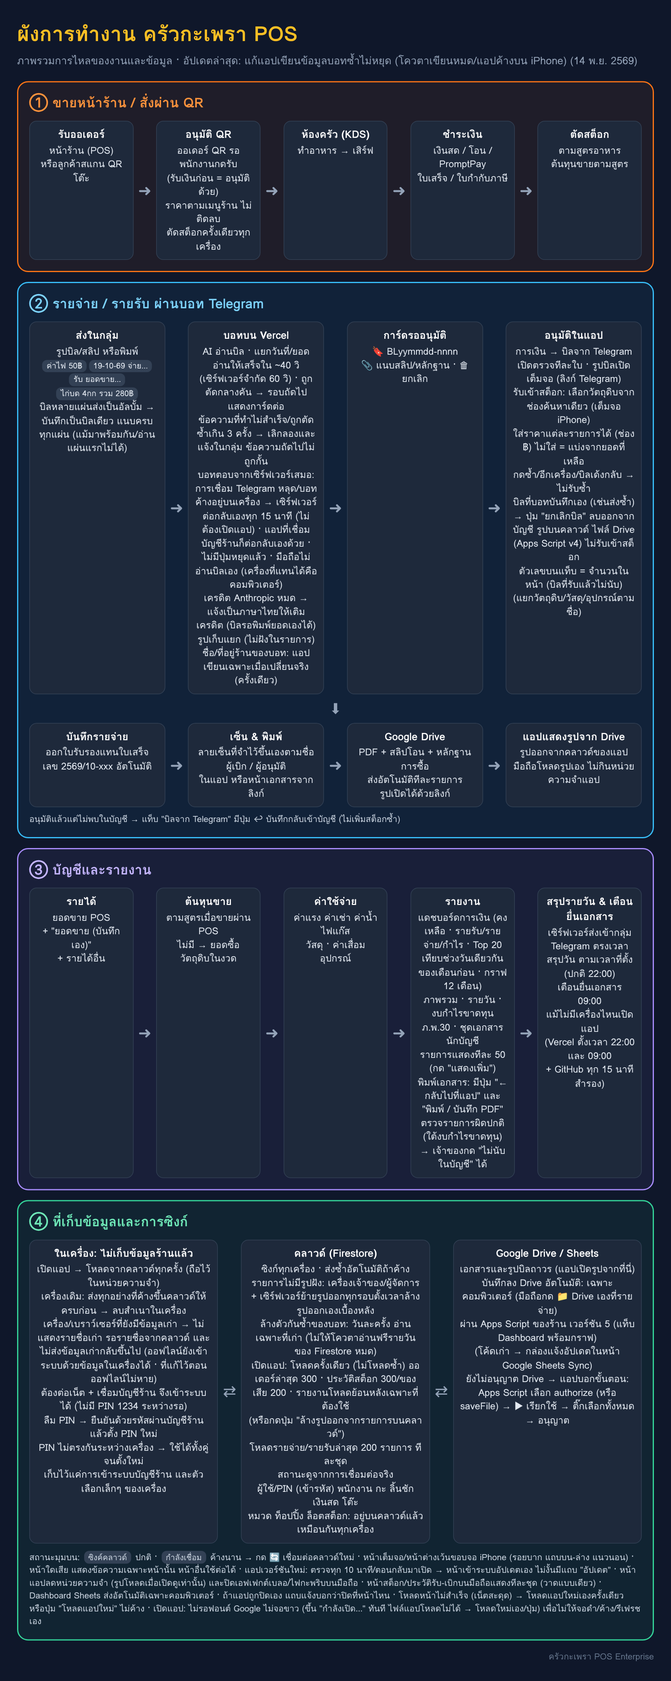
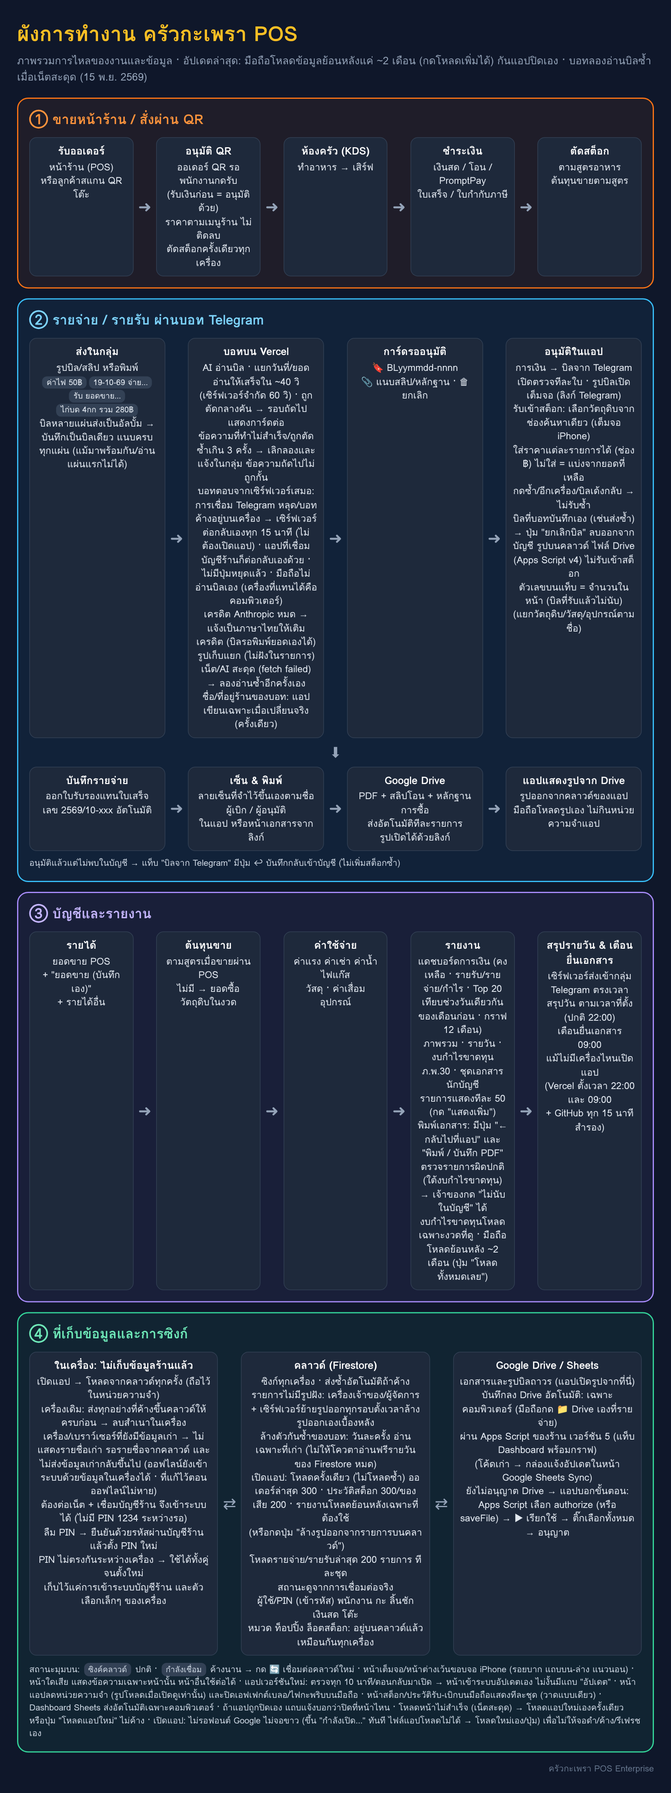
Phones stop loading a year of orders on the finance page; the bot reads again after a network hiccup
The books loaded every order since the start of the year (or the books)
whenever the finance page opened, also for this month's profit and loss:
on iPhones, which keep nothing between visits, that was thousands of
orders in memory (and reads) each time, and the page was closed for lack
of memory. A statement now loads its own period; a phone loads about two
months by itself and older records when asked. A device that keeps
nothing no longer holds a second copy of its records as text.

The bot tries a bill once more when reading it failed quickly on the
network (fetch failed, a reset connection, the AI busy).

Claude-Session: https://claude.ai/code/session_01Gq3UvYW4wv3hsVCXoh5wxy

diff --git a/docs/workflow/flow.html b/docs/workflow/flow.html
@@ -17,7 +17,7 @@ h1{margin:0 0 4px;font-size:34px;color:#fbbf24}.sub{color:#94a3b8;font-size:17px
 .foot{color:#64748b;font-size:14px;margin-top:6px;text-align:right}
 </style></head><body>
 <h1>ผังการทำงาน ครัวกะเพรา POS</h1>
-<div class="sub">ภาพรวมการไหลของงานและข้อมูล · อัปเดตล่าสุด: แก้แอปเขียนข้อมูลบอทซ้ำไม่หยุด (โควตาเขียนหมด/แอปค้างบน iPhone) (14 พ.ย. 2569)</div>
+<div class="sub">ภาพรวมการไหลของงานและข้อมูล · อัปเดตล่าสุด: มือถือโหลดข้อมูลย้อนหลังแค่ ~2 เดือน (กดโหลดเพิ่มได้) กันแอปปิดเอง · บอทลองอ่านบิลซ้ำเมื่อเน็ตสะดุด (15 พ.ย. 2569)</div>
 
 <div class="lane pos"><h2>① ขายหน้าร้าน / สั่งผ่าน QR</h2>
 <div class="row">
@@ -31,7 +31,7 @@ h1{margin:0 0 4px;font-size:34px;color:#fbbf24}.sub{color:#94a3b8;font-size:17px
 <div class="lane tg"><h2>② รายจ่าย / รายรับ ผ่านบอท Telegram</h2>
 <div class="row">
 <div class="box"><b>ส่งในกลุ่ม</b>รูปบิล/สลิป หรือพิมพ์<br><span class="tag">ค่าไฟ 50฿</span><span class="tag">19-10-69 จ่าย…</span><span class="tag">รับ ยอดขาย…</span><span class="tag">ไก่บด 4กก รวม 280฿</span><br>บิลหลายแผ่นส่งเป็นอัลบั้ม → บันทึกเป็นบิลเดียว แนบครบทุกแผ่น (แม้มาพร้อมกัน/อ่านแผ่นแรกไม่ได้)</div><div class="ar">➜</div>
-<div class="box"><b>บอทบน Vercel</b>AI อ่านบิล · แยกวันที่/ยอด<br>อ่านให้เสร็จใน ~40 วิ (เซิร์ฟเวอร์จำกัด 60 วิ) · ถูกตัดกลางคัน → รอบถัดไปแสดงการ์ดต่อ<br>ข้อความที่ทำไม่สำเร็จ/ถูกตัดซ้ำเกิน 3 ครั้ง → เลิกลองและแจ้งในกลุ่ม ข้อความถัดไปไม่ถูกกั้น<br>บอทตอบจากเซิร์ฟเวอร์เสมอ: การเชื่อม Telegram หลุด/บอทค้างอยู่บนเครื่อง → เซิร์ฟเวอร์ต่อกลับเองทุก 15 นาที (ไม่ต้องเปิดแอป) · แอปที่เชื่อมบัญชีร้านก็ต่อกลับเองด้วย · ไม่มีปุ่มหยุดแล้ว · มือถือไม่อ่านบิลเอง (เครื่องที่แทนได้คือคอมพิวเตอร์)<br>เครดิต Anthropic หมด → แจ้งเป็นภาษาไทยให้เติมเครดิต (บิลรอพิมพ์ยอดเองได้)<br>รูปเก็บแยก (ไม่ฝังในรายการ)<br>ชื่อ/ที่อยู่ร้านของบอท: แอปเขียนเฉพาะเมื่อเปลี่ยนจริง (ครั้งเดียว)</div><div class="ar">➜</div>
+<div class="box"><b>บอทบน Vercel</b>AI อ่านบิล · แยกวันที่/ยอด<br>อ่านให้เสร็จใน ~40 วิ (เซิร์ฟเวอร์จำกัด 60 วิ) · ถูกตัดกลางคัน → รอบถัดไปแสดงการ์ดต่อ<br>ข้อความที่ทำไม่สำเร็จ/ถูกตัดซ้ำเกิน 3 ครั้ง → เลิกลองและแจ้งในกลุ่ม ข้อความถัดไปไม่ถูกกั้น<br>บอทตอบจากเซิร์ฟเวอร์เสมอ: การเชื่อม Telegram หลุด/บอทค้างอยู่บนเครื่อง → เซิร์ฟเวอร์ต่อกลับเองทุก 15 นาที (ไม่ต้องเปิดแอป) · แอปที่เชื่อมบัญชีร้านก็ต่อกลับเองด้วย · ไม่มีปุ่มหยุดแล้ว · มือถือไม่อ่านบิลเอง (เครื่องที่แทนได้คือคอมพิวเตอร์)<br>เครดิต Anthropic หมด → แจ้งเป็นภาษาไทยให้เติมเครดิต (บิลรอพิมพ์ยอดเองได้)<br>รูปเก็บแยก (ไม่ฝังในรายการ)<br>เน็ต/AI สะดุด (fetch failed) → ลองอ่านซ้ำอีกครั้งเอง<br>ชื่อ/ที่อยู่ร้านของบอท: แอปเขียนเฉพาะเมื่อเปลี่ยนจริง (ครั้งเดียว)</div><div class="ar">➜</div>
 <div class="box"><b>การ์ดรออนุมัติ</b>🔖 BLyymmdd-nnnn<br>📎 แนบสลิป/หลักฐาน · 🗑 ยกเลิก</div><div class="ar">➜</div>
 <div class="box"><b>อนุมัติในแอป</b>การเงิน → บิลจาก Telegram<br>เปิดตรวจทีละใบ · รูปบิลเปิดเต็มจอ (ลิงก์ Telegram)<br>รับเข้าสต็อก: เลือกวัตถุดิบจากช่องค้นหาเดียว (เต็มจอ iPhone)<br>ใส่ราคาแต่ละรายการได้ (ช่อง ฿) ไม่ใส่ = แบ่งจากยอดที่เหลือ<br>กดซ้ำ/อีกเครื่อง/บิลเด้งกลับ → ไม่รับซ้ำ<br>บิลที่บอทบันทึกเอง (เช่นส่งซ้ำ) → ปุ่ม "ยกเลิกบิล" ลบออกจากบัญชี รูปบนคลาวด์ ไฟล์ Drive (Apps Script v4) ไม่รับเข้าสต็อก<br>ตัวเลขบนแท็บ = จำนวนในหน้า (บิลที่รับแล้วไม่นับ)<br>(แยกวัตถุดิบ/วัสดุ/อุปกรณ์ตามชื่อ)</div>
 </div>
@@ -50,7 +50,7 @@ h1{margin:0 0 4px;font-size:34px;color:#fbbf24}.sub{color:#94a3b8;font-size:17px
 <div class="box"><b>รายได้</b>ยอดขาย POS<br>+ "ยอดขาย (บันทึกเอง)"<br>+ รายได้อื่น</div><div class="ar">➜</div>
 <div class="box"><b>ต้นทุนขาย</b>ตามสูตรเมื่อขายผ่าน POS<br>ไม่มี → ยอดซื้อวัตถุดิบในงวด</div><div class="ar">➜</div>
 <div class="box"><b>ค่าใช้จ่าย</b>ค่าแรง ค่าเช่า ค่าน้ำไฟแก๊ส<br>วัสดุ · ค่าเสื่อมอุปกรณ์</div><div class="ar">➜</div>
-<div class="box"><b>รายงาน</b>แดชบอร์ดการเงิน (คงเหลือ · รายรับ/รายจ่าย/กำไร · Top 20 เทียบช่วงวันเดียวกันของเดือนก่อน · กราฟ 12 เดือน)<br>ภาพรวม · รายวัน · งบกำไรขาดทุน<br>ภ.พ.30 · ชุดเอกสารนักบัญชี<br>รายการแสดงทีละ 50 (กด "แสดงเพิ่ม")<br>พิมพ์เอกสาร: มีปุ่ม "← กลับไปที่แอป" และ "พิมพ์ / บันทึก PDF"<br>ตรวจรายการผิดปกติ (ใต้งบกำไรขาดทุน)<br>→ เจ้าของกด "ไม่นับในบัญชี" ได้</div><div class="ar">➜</div>
+<div class="box"><b>รายงาน</b>แดชบอร์ดการเงิน (คงเหลือ · รายรับ/รายจ่าย/กำไร · Top 20 เทียบช่วงวันเดียวกันของเดือนก่อน · กราฟ 12 เดือน)<br>ภาพรวม · รายวัน · งบกำไรขาดทุน<br>ภ.พ.30 · ชุดเอกสารนักบัญชี<br>รายการแสดงทีละ 50 (กด "แสดงเพิ่ม")<br>พิมพ์เอกสาร: มีปุ่ม "← กลับไปที่แอป" และ "พิมพ์ / บันทึก PDF"<br>ตรวจรายการผิดปกติ (ใต้งบกำไรขาดทุน)<br>→ เจ้าของกด "ไม่นับในบัญชี" ได้<br>งบกำไรขาดทุนโหลดเฉพาะงวดที่ดู · มือถือโหลดย้อนหลัง ~2 เดือน (ปุ่ม "โหลดทั้งหมดเลย")</div><div class="ar">➜</div>
 <div class="box"><b>สรุปรายวัน &amp; เตือนยื่นเอกสาร</b>เซิร์ฟเวอร์ส่งเข้ากลุ่ม Telegram ตรงเวลา<br>สรุปวัน ตามเวลาที่ตั้ง (ปกติ 22:00)<br>เตือนยื่นเอกสาร 09:00<br>แม้ไม่มีเครื่องไหนเปิดแอป<br>(Vercel ตั้งเวลา 22:00 และ 09:00<br>+ GitHub ทุก 15 นาที สำรอง)</div>
 </div></div>
 

diff --git a/src/services/botEngine.ts b/src/services/botEngine.ts
@@ -140,6 +140,12 @@ type Entry = TypedEntry & { category?: Expense['category']; includeVat?: boolean
 type Saved = { kind: 'expense'; rec: Expense } | { kind: 'income'; rec: OtherIncome };
 
 /** Handles one Telegram update from the shop's chat */
+/** Errors of the network or a busy service, worth one more try */
+export const isTransient = (e: unknown) =>
+  /fetch failed|ECONNRESET|ETIMEDOUT|ENOTFOUND|EAI_AGAIN|EPIPE|socket hang up|network|overloaded|Bad Gateway|Service Unavailable|Gateway Time|\b(429|500|502|503|504|529)\b/i.test(
+    String((e as any)?.message || e || '') + ' ' + String((e as any)?.cause?.code || '')
+  );
+
 export async function handleBotUpdate(ctx: BotContext, store: BotStore, update: any): Promise<void> {
   const { chatId } = ctx;
   const fromId = update.callback_query?.from?.id ?? (update.message || update.channel_post)?.from?.id;
@@ -509,6 +515,21 @@ export async function handleBotUpdate(ctx: BotContext, store: BotStore, update: 
   const sleep = ctx.sleep || ((ms: number) => new Promise<void>(r => setTimeout(r, ms)));
   const albumKey = (group: string) => `${chatId}_${group}`;
 
+  /**
+   * A network hiccup (fetch failed, a reset connection, the AI busy) tried once more after a moment,
+   * when it failed quickly: a bill failed with "fetch failed" and waited to be typed by hand
+   */
+  const onceMore = async <T,>(work: () => Promise<T>): Promise<T> => {
+    const began = Date.now();
+    try {
+      return await work();
+    } catch (e: any) {
+      if (!isTransient(e) || Date.now() - began > 15_000) throw e;
+      await sleep(2000);
+      return work();
+    }
+  };
+
   /** The bill that owns an album: `itemId` when this photo is its first */
   const albumOwner = async (group: string, itemId: string): Promise<string> => {
     if (store.album) return store.album.claim(albumKey(group), itemId);
@@ -702,8 +723,8 @@ export async function handleBotUpdate(ctx: BotContext, store: BotStore, update: 
     const progressId = (again || progress?.message_id) as number | undefined;
     if (progressId && !again) await store.patchInbox(id, { progressMessageId: progressId });
     try {
-      const images = await ctx.readPhoto(photo);
-      const data = toPendingData(await ctx.scan(images.scan, today), item.receivedAt.slice(0, 10));
+      const images = await onceMore(() => ctx.readPhoto(photo));
+      const data = toPendingData(await onceMore(() => ctx.scan(images.scan, today)), item.receivedAt.slice(0, 10));
       const fromCaption = captionTitle(photo.caption || '');
       if (fromCaption) data.title = fromCaption;
       const twin = await findTwin(id, item.kind, data.amount, data.date, data.refNumber);
@@ -746,6 +767,7 @@ export async function handleBotUpdate(ctx: BotContext, store: BotStore, update: 
       // The album's other pages stay with this bill (kept when the amount is typed)
       if (!pages.length) pages = await albumPages(photo.mediaGroupId);
       const extraFileIds = pages.slice(0, MAX_ATTACHMENTS - 1).map(pg => pg.storeFileId || pg.fileId);
+      if (e && typeof e === 'object' && isTransient(e)) e.message = `ติดต่อ AI หรือ Telegram ไม่ได้ชั่วคราว (${e.message}) — กด “อ่านใหม่” หรือส่งรูปนี้อีกครั้ง`;
       await store.patchInbox(id, { status: 'failed', error: e?.message || 'อ่านบิลไม่สำเร็จ', ...(extraFileIds.length ? { extraFileIds } : {}) });
       // The amount can be typed as the answer, and the photo is kept with the entry
       await store.setWaiting(chatId, userId, { action: 'amount', recordId: id });

diff --git a/src/context/POSContext.tsx b/src/context/POSContext.tsx
@@ -1,3 +1,4 @@
+import { isPhoneLike, phoneHistoryFloor } from '../utils/device';
 import React, { createContext, useContext, useState, useEffect, useCallback, useRef, useMemo, ReactNode } from 'react';
 import { isLowStock } from '../utils/stockTypes';
 import { DEFAULT_PIN_HASH, hashPin, hashPinWithSalt, isHashedPin, pinMatches } from '../utils/pins';
@@ -434,9 +435,12 @@ interface POSContextType {
   }>;
   pullCloudOrders: () => Promise<{ count: number; success: boolean }>;
   /** Make sure sales, expenses and income from this day on are on this device (reports, books) */
-  loadHistory: (fromDay: string) => Promise<boolean>;
+  /** force: also on a phone, past the recent months (asked for by the person) */
+  loadHistory: (fromDay: string, force?: boolean) => Promise<boolean>;
   /** The day being loaded by loadHistory, while it loads */
   historyLoading: string | null;
+  /** On a phone: an earlier day a page wanted, not loaded until the person asks (memory) */
+  historyHeld: string | null;
   pullCloudAllData: () => Promise<{ ordersCount: number; ingredientsCount: number; menuItemsCount: number; success: boolean }>;
 
   // Conflict Resolution
@@ -2024,9 +2028,28 @@ export const POSProvider: React.FC<{ children: ReactNode }> = ({ children }) => 
   const [historyLoading, setHistoryLoading] = useState<string | null>(null);
   const historyInFlight = useRef<Promise<boolean> | null>(null);
   const historyCovered = useRef('');
+  const [historyHeld, setHistoryHeld] = useState<string | null>(null);
+  const historyHeldRef = useRef<string | null>(null);
+  historyHeldRef.current = historyHeld;
   const loadHistory = useCallback(
-    async (fromDay: string): Promise<boolean> => {
+    async (fromDay: string, force = false): Promise<boolean> => {
       if (!/^\d{4}-\d{2}-\d{2}$/.test(fromDay) || !isFirebaseAvailable() || effectiveOffline) return false;
+      // A phone keeps the recent months only: a page opening a year of orders (the books from the
+      // start of the year) ran iPhones out of memory, and read thousands of documents each time.
+      // Older ones load when the person asks (historyHeld shows the button)
+      const hold = (day: string | null) => {
+        historyHeldRef.current = day;
+        setHistoryHeld(day);
+      };
+      const reached = !!historyCovered.current && historyCovered.current <= fromDay;
+      if (!force && !reached && isPhoneLike() && fromDay < phoneHistoryFloor()) {
+        const floor = phoneHistoryFloor();
+        hold(fromDay);
+        if (historyCovered.current && historyCovered.current <= floor) return false;
+        return loadHistoryRef.current(floor, true).then(() => false);
+      }
+      // The latest page's own range is within reach, or the person asked for at least the held one
+      if (!force || !historyHeldRef.current || fromDay <= historyHeldRef.current) hold(null);
       // How far back this visit holds (a device that keeps nothing starts each visit without it)
       let covered = historyCovered.current;
       if (!retiredStart && !covered) {
@@ -2091,6 +2114,8 @@ export const POSProvider: React.FC<{ children: ReactNode }> = ({ children }) => 
     },
     [effectiveOffline]
   );
+  const loadHistoryRef = useRef(loadHistory);
+  loadHistoryRef.current = loadHistory;
 
   const pullCloudAllData = useCallback(async (): Promise<{
     ordersCount: number;
@@ -5138,6 +5163,7 @@ export const POSProvider: React.FC<{ children: ReactNode }> = ({ children }) => 
         pullCloudOrders,
         loadHistory,
         historyLoading,
+        historyHeld,
         pullCloudAllData,
         conflictReport,
         isConflictResolverOpen,

diff --git a/src/components/accounting/LedgerBooks.tsx b/src/components/accounting/LedgerBooks.tsx
@@ -1,5 +1,6 @@
 import React, { useEffect, useMemo, useRef, useState } from 'react';
 import { FinanceDashboard } from './FinanceDashboard';
+import { HistoryHeldNotice } from '../common/HistoryHeldNotice';
 import { dashboardSince } from '../../utils/financeDashboard';
 import { CheckCircle2, ChevronRight, Plus, Printer, RotateCcw, Trash2, TriangleAlert } from 'lucide-react';
 import { usePOS } from '../../context/POSContext';
@@ -180,7 +181,8 @@ export const LedgerBooks: React.FC<{ tab: LedgerTab; onTab: (t: LedgerTab) => vo
     const start = settings.booksStartAt ? thaiDay(settings.booksStartAt) : `${asOf.slice(0, 4)}-01-01`;
     // The dashboard: its twelve months (and profit to date from the start of the books)
     const dashFrom = tab === 'dashboard' ? dashboardFrom : from;
-    return [start, from, dashFrom].sort()[0];
+    // A statement of a period needs that period only (it loaded from the start of the year before)
+    return [tab === 'balance' || tab === 'trial' ? start : from, from, dashFrom].sort()[0];
   }, [settings.booksStartAt, asOf, from, tab, dashboardFrom]);
   useEffect(() => {
     let alive = true;
@@ -433,6 +435,8 @@ export const LedgerBooks: React.FC<{ tab: LedgerTab; onTab: (t: LedgerTab) => vo
       ) : historyFailed ? (
         <p className="text-[11px] text-slate-500">ยังโหลดรายการย้อนหลังจากคลาวด์ไม่ได้ (ออฟไลน์?) ตัวเลขนี้มาจากข้อมูลในเครื่องนี้</p>
       ) : null}
+
+      <HistoryHeldNotice />
 
       <nav className="flex flex-wrap gap-2" aria-label="บัญชีและงบการเงิน">
         {(Object.keys(LEDGER_TAB_LABELS) as LedgerTab[]).map(t => (

diff --git a/src/components/common/HistoryHeldNotice.tsx b/src/components/common/HistoryHeldNotice.tsx
@@ -1,0 +1,27 @@
+import React from 'react';
+import { usePOS } from '../../context/POSContext';
+const thaiDate = (d: string) => new Date(`${d}T00:00:00`).toLocaleDateString('th-TH', { day: 'numeric', month: 'short', year: 'numeric' });
+
+/**
+ * On a phone, records older than about two months are not loaded by themselves (a year of orders ran
+ * iPhones out of memory): shown with a button to load them anyway
+ */
+export const HistoryHeldNotice: React.FC = () => {
+  const { historyHeld, historyLoading, loadHistory } = usePOS();
+  if (!historyHeld) return null;
+  return (
+    <div className="p-3 rounded-xl border border-amber-600/50 bg-amber-950/30 text-amber-100 text-[11px] flex flex-wrap items-center justify-between gap-2 print:hidden">
+      <span>
+        มือถือโหลดข้อมูลย้อนหลังแค่ประมาณ 2 เดือน (กันหน่วยความจำเต็มจนแอปปิดเอง) ตัวเลขก่อนหน้านั้นยังไม่ครบ ตั้งแต่ {thaiDate(historyHeld)} · ดูบนคอมพิวเตอร์ได้ครบ
+      </span>
+      <button
+        type="button"
+        disabled={!!historyLoading}
+        onClick={() => void loadHistory(historyHeld, true)}
+        className="h-10 px-3 rounded-lg bg-amber-500 text-slate-950 font-bold disabled:opacity-50"
+      >
+        {historyLoading ? 'กำลังโหลด…' : 'โหลดทั้งหมดเลย'}
+      </button>
+    </div>
+  );
+};

diff --git a/src/components/accounting/AccountingView.tsx b/src/components/accounting/AccountingView.tsx
@@ -1,6 +1,7 @@
 import React, { useState, useMemo, useRef, useEffect } from 'react';
 import { splitBillCost } from '../../utils/stockIntake';
 import { LedgerBooks, LedgerTab } from './LedgerBooks';
+import { HistoryHeldNotice } from '../common/HistoryHeldNotice';
 import { profitAndLoss, type PaidFrom } from '../../utils/ledger';
 import { useLedger } from '../../hooks/useLedger';
 import { VatReportPanel } from './VatReportPanel';
@@ -1984,6 +1985,7 @@ export const AccountingView: React.FC = () => {
         {/* Printable & Capture PDF Container */}
         <div ref={reportRef} id="accounting-report-content" className="space-y-4 sm:space-y-6 bg-slate-950 p-2 sm:p-4 rounded-2xl">
         {/* Statements: the double-entry books (profit and loss, balance sheet, cash flow, journal, trial balance, ledger) */}
+        {activeTab !== 'books' && activeTab !== 'telegram' && <HistoryHeldNotice />}
         {activeTab === 'books' && <LedgerBooks tab={ledgerTab} onTab={setLedgerTab} />}
         {activeTab === 'vat' && <VatReportPanel />}
 

diff --git a/src/utils/bigStore.ts b/src/utils/bigStore.ts
@@ -20,6 +20,7 @@ export const BIG_KEYS = [
   'POS_INGREDIENTS_DATA'
 ] as const;
 
+const RECORD_KEYS = ['POS_ORDERS_DATA', 'POS_EXPENSES_DATA', 'POS_INCOMES_DATA', 'POS_MENU_ITEMS_DATA', 'POS_INGREDIENTS_DATA'];
 const DB_NAME = 'kaprao-pos-local';
 const STORE = 'kv';
 // Other keys moved to the database by the code that uses them (bigStore.adopt), e.g. the shared lists
@@ -334,7 +335,11 @@ export const bigStore = {
   },
   setItem(key: string, value: string): void {
     if (memoryOnly && (isBig(key) || isBigKey(key))) {
-      if (!writeOnly.has(key)) cache.set(key, value);
+      // The records themselves (orders, expenses…) are only read back when the app starts, and a
+      // device that keeps nothing starts without them: a second copy as text here doubled the
+      // memory they take on phones (megabytes of orders), so it is not kept
+      if (RECORD_KEYS.includes(key)) cache.delete(key);
+      else if (!writeOnly.has(key)) cache.set(key, value);
       return;
     }
     if (unreachable && isBigKey(key)) return;

diff --git a/src/services/__tests__/botTransient.test.ts b/src/services/__tests__/botTransient.test.ts
@@ -1,0 +1,12 @@
+import { describe, expect, it } from 'vitest';
+import { isTransient } from '../botEngine';
+
+describe('network hiccups while reading a bill', () => {
+  it('are told apart from real failures', () => {
+    expect(isTransient(new TypeError('fetch failed'))).toBe(true);
+    expect(isTransient(new Error('Anthropic API 529: Overloaded'))).toBe(true);
+    expect(isTransient(Object.assign(new Error('x'), { cause: { code: 'ECONNRESET' } }))).toBe(true);
+    expect(isTransient(new Error('ไม่พบยอดเงินในรูป'))).toBe(false);
+    expect(isTransient(new Error('credit balance is too low'))).toBe(false);
+  });
+});

diff --git a/src/components/orders/OrderHistoryView.tsx b/src/components/orders/OrderHistoryView.tsx
@@ -56,7 +56,7 @@ export const OrderHistoryView: React.FC = () => {
   const [customEndDate, setCustomEndDate] = useState('');
   // A device keeps the recent weeks: an older chosen period is read from the cloud
   useEffect(() => {
-    if (dateFilter === 'custom' && customStartDate) loadHistory(customStartDate);
+    if (dateFilter === 'custom' && customStartDate) loadHistory(customStartDate, true);
   }, [dateFilter, customStartDate, loadHistory]);
   const [statusFilter, setStatusFilter] = useState<'all' | 'completed' | 'in_progress' | 'cancelled'>('all');
   const [paymentFilter, setPaymentFilter] = useState<'all' | PaymentMethod>('all');

diff --git a/src/utils/device.ts b/src/utils/device.ts
@@ -5,3 +5,9 @@
  */
 export const isPhoneLike = (): boolean =>
   typeof window !== 'undefined' && !!window.matchMedia?.('(hover: none), (max-width: 1024px)').matches;
+
+/** How far back a phone loads records by itself (about two months; older ones when asked) */
+export const phoneHistoryFloor = (now = new Date()): string => {
+  const d = new Date(now.getTime() - 62 * 86_400_000);
+  return `${d.getFullYear()}-${String(d.getMonth() + 1).padStart(2, '0')}-${String(d.getDate()).padStart(2, '0')}`;
+};
